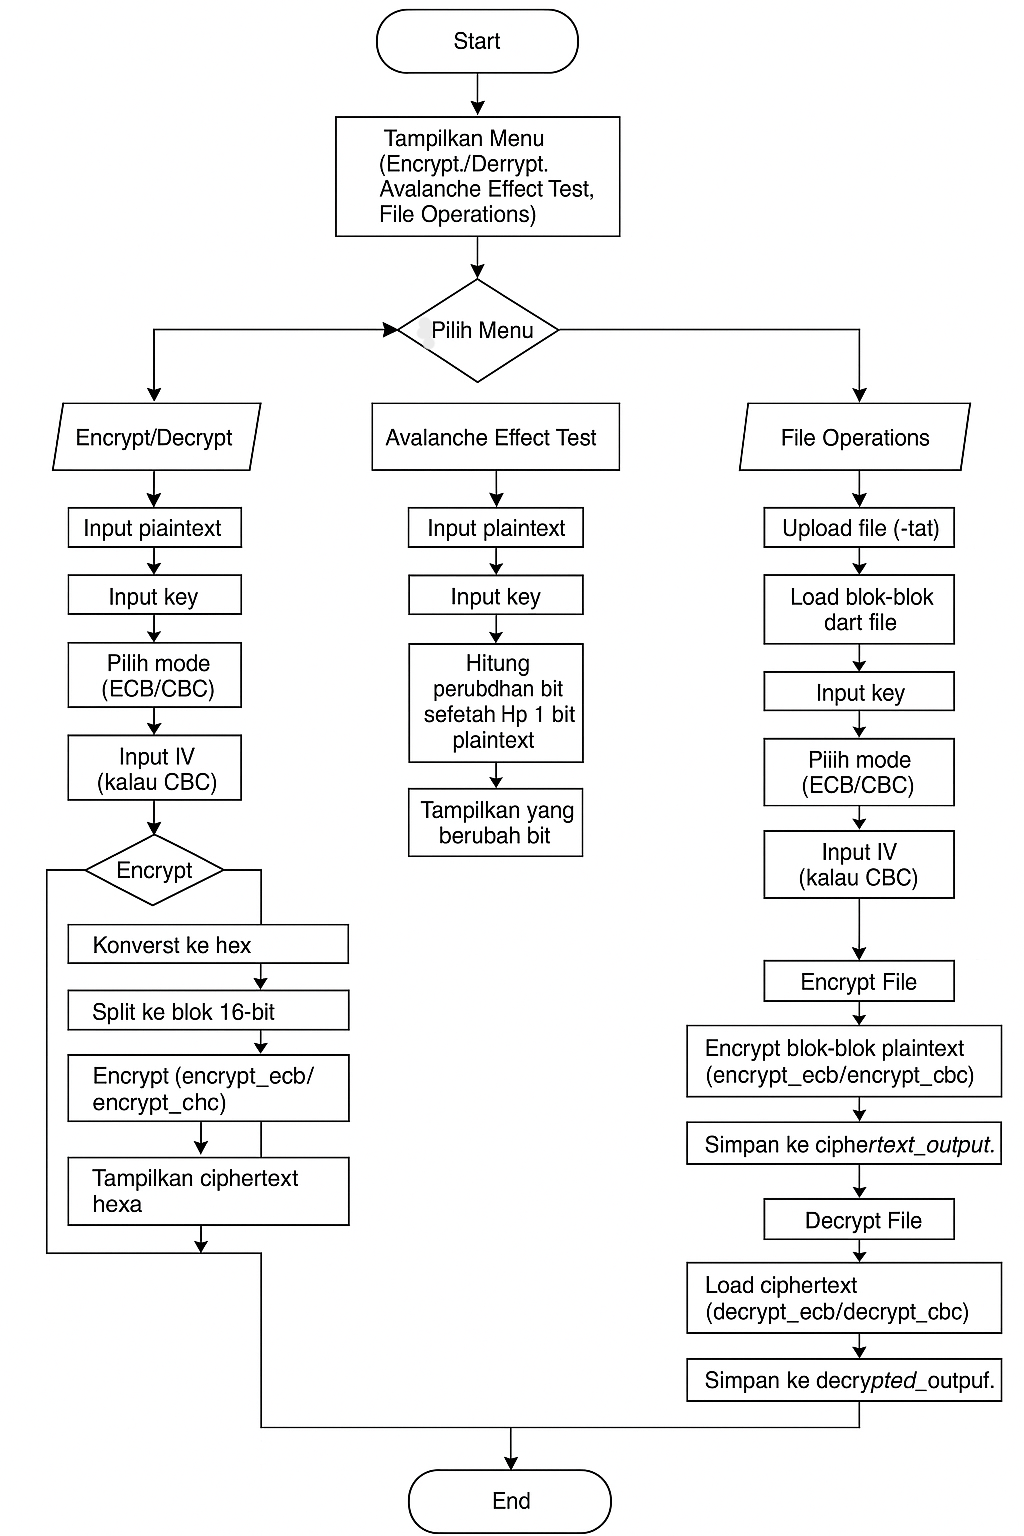
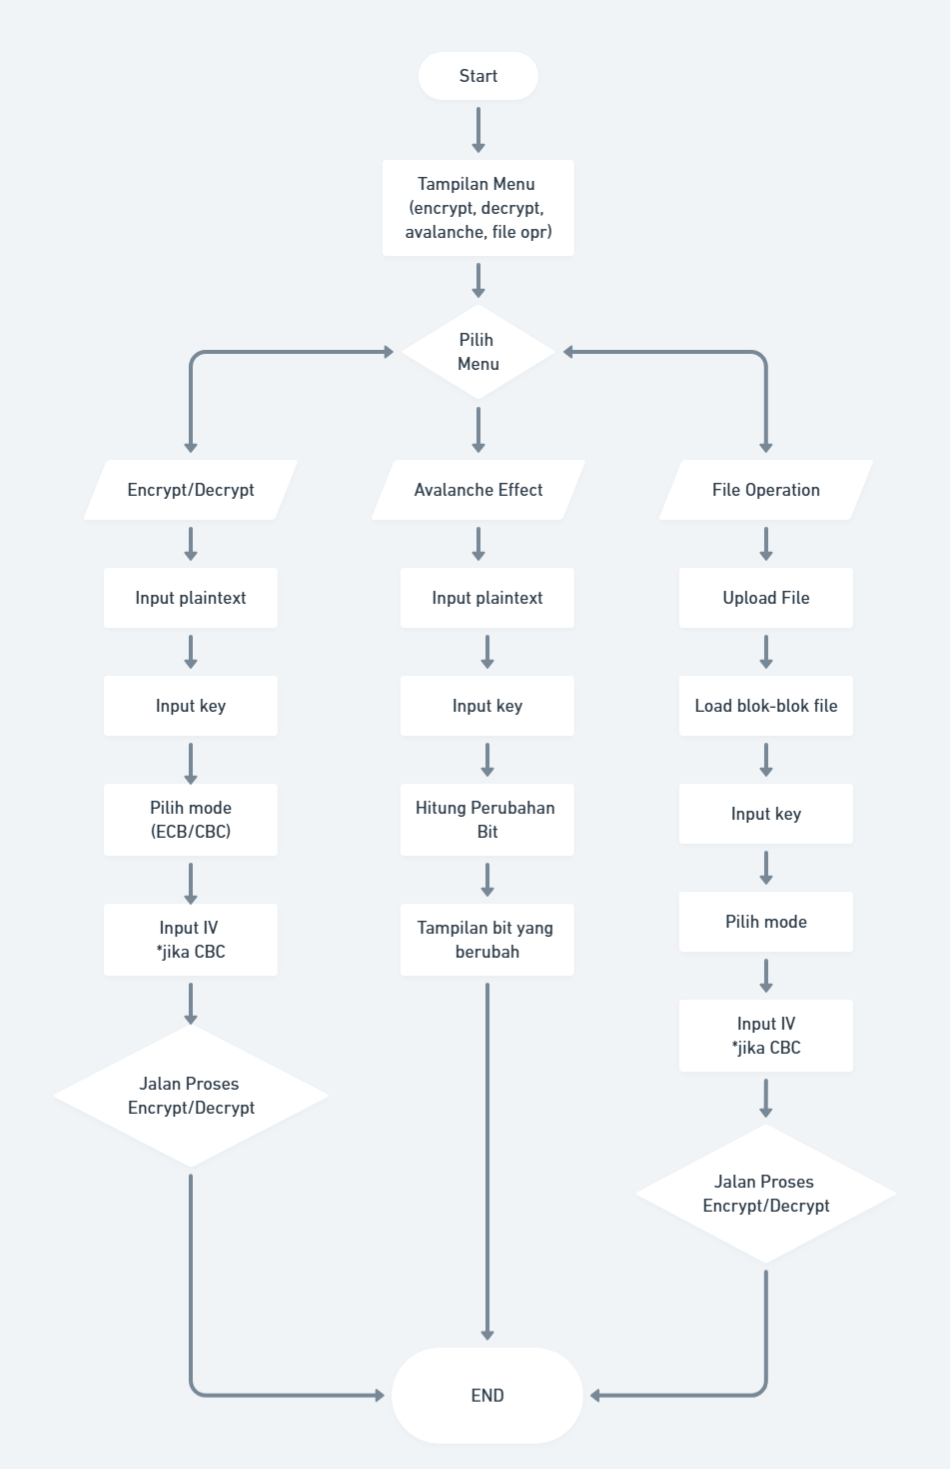
flowchart + fix operation

diff --git a/Explanation.md b/Explanation.md
@@ -358,5 +358,6 @@ else:
 save_to_file("decrypted_output.txt", decrypted_blocks)
 ```
 
-Flowchart untuk operation filenya
+*(flowchart untuk operation filenya)*
+
 ![alt text](/image/flowchart%20operation%20file.png)
